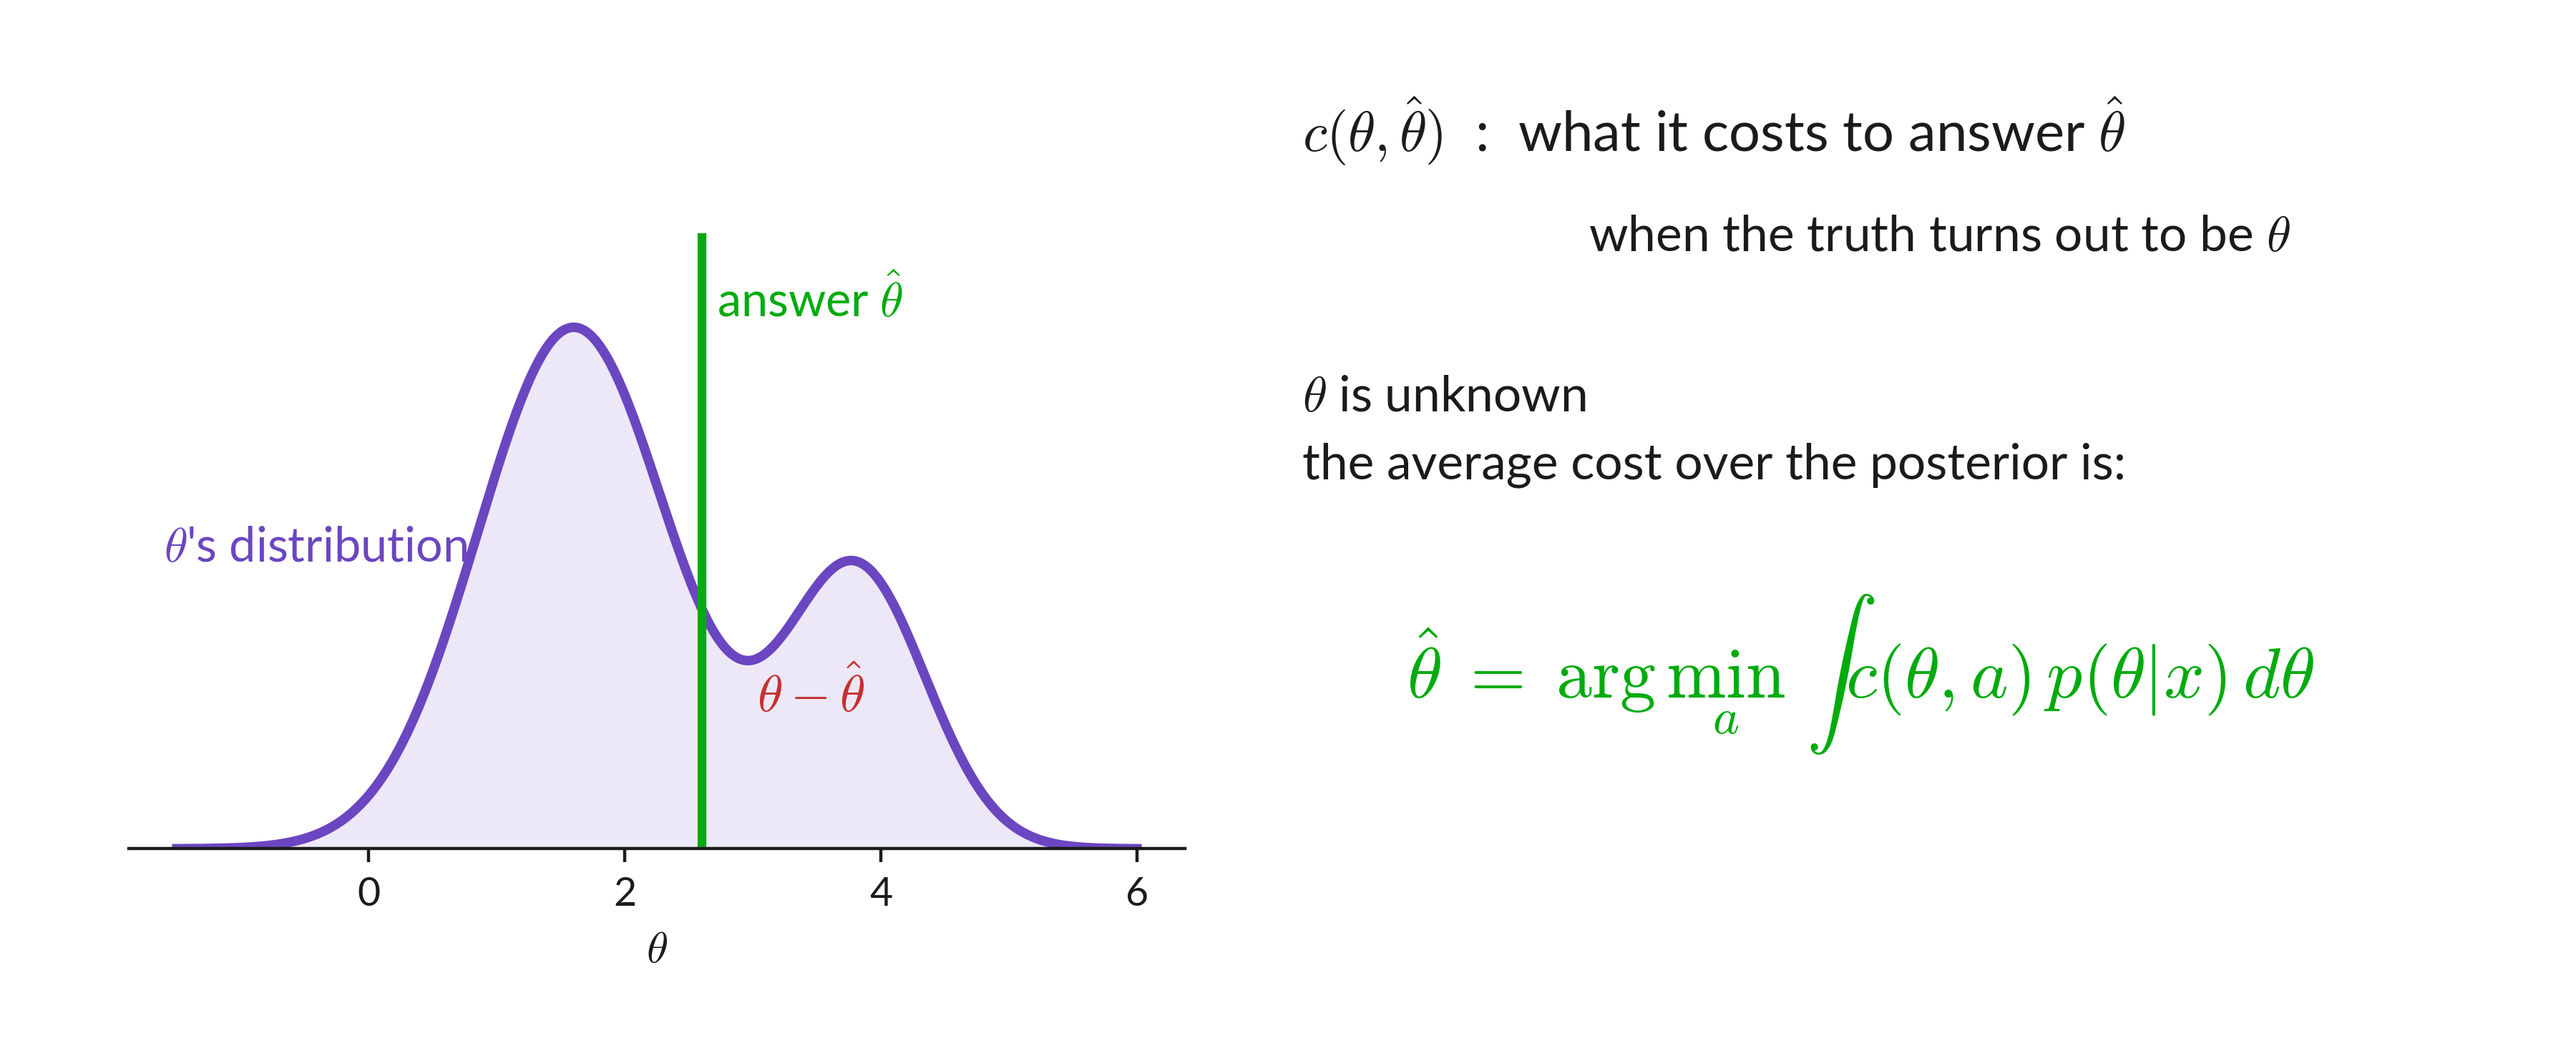
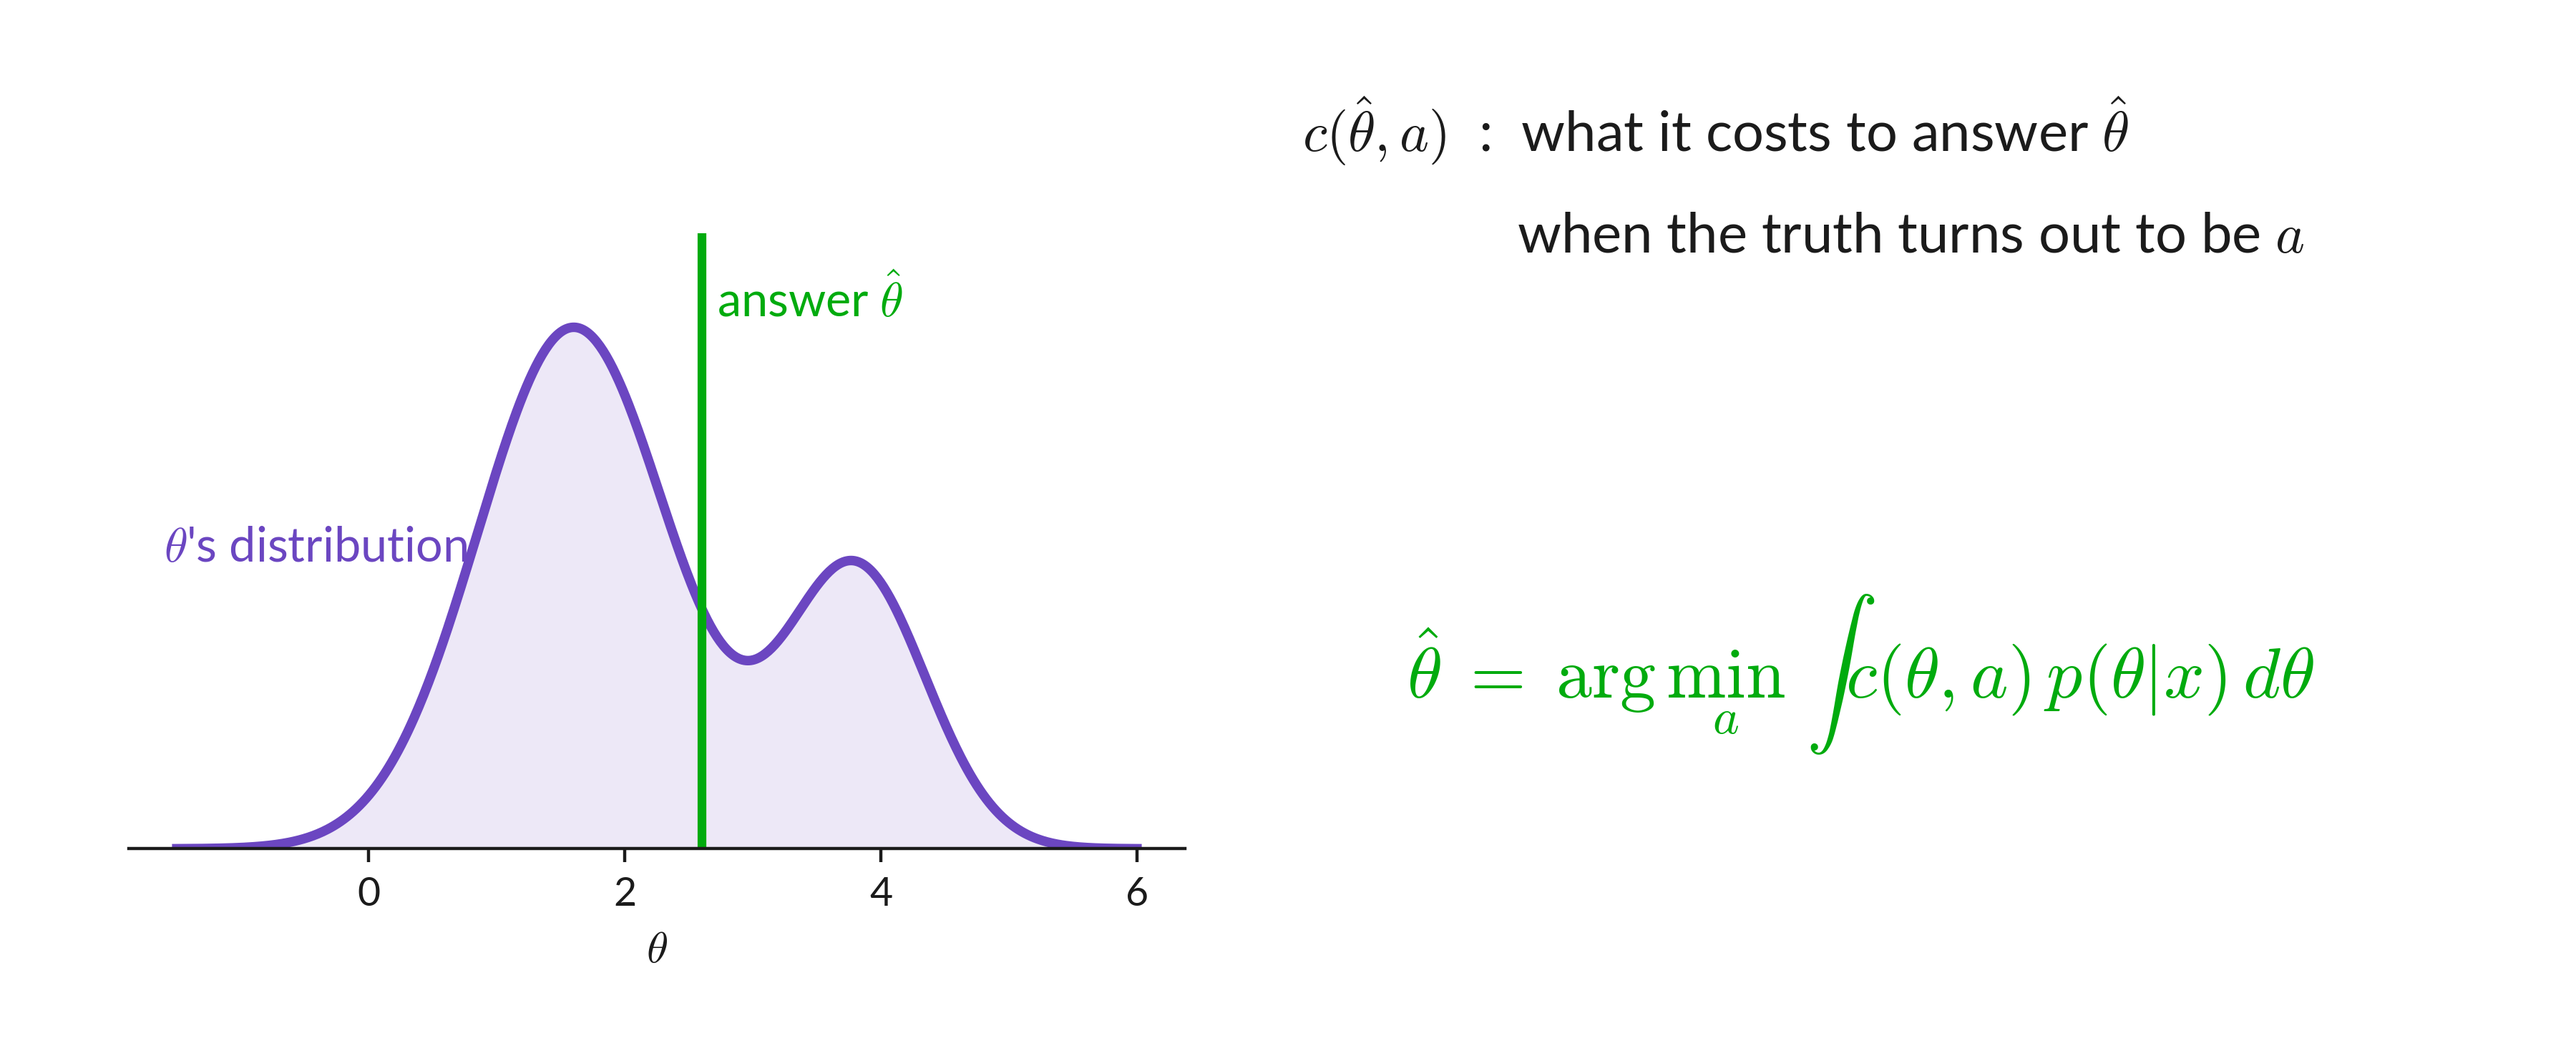
updated slides images

diff --git a/scripts/make_figures_c01.py b/scripts/make_figures_c01.py
@@ -1139,8 +1139,7 @@ def cost_idea(fig):
         xytext=(answer, 0.55),
         arrowprops={"arrowstyle": "<|-|>", "color": RED, "lw": 1.6},
     )
-    plot.text(3.45, 0.1, r"$\theta - \hat\theta$", color=RED, fontsize=13,
-              ha="center")
+    # plot.text(3.45, 0.1, r"$\theta - \hat\theta$", color=RED, fontsize=13, ha="center")
     plot.text(answer + 0.12, post.max() * 1.02, r"answer $\hat\theta$",
               color=GREEN, fontsize=12, ha="left")
     plot.text(-1.6, post.max() * 0.55, r"$\theta$'s distribution",
@@ -1154,31 +1153,20 @@ def cost_idea(fig):
     ax.text(
         x0,
         3.25,
-        r"$c(\theta, \hat\theta)$  :  what it costs to answer $\hat{\theta}$",
+        r"$c(\hat{\theta}, a)$  :  what it costs to answer $\hat{\theta}$",
         ha="left",
         va="center",
         color=INK,
         fontsize=14,
     )
     ax.text(
-        x0+1,
+        x0+0.75,
         2.88,
-        r"when the truth turns out to be $\theta$",
+        r"when the truth turns out to be $a$",
         ha="left",
         va="center",
         color=INK,
-        fontsize=12.5,
-    )
-    ax.text(
-        x0,
-        2.2,
-        r"$\theta$ is unknown"
-        "\nthe average cost over the posterior is:",
-        ha="left",
-        va="center",
-        color=INK,
-        fontsize=12.5,
-        linespacing=1.6,
+        fontsize=14,
     )
     ax.text(
         x0 + 1.95,
@@ -1520,7 +1508,7 @@ def mse_divisor(fig):
     side.text(
         0.0,
         0.34,
-        r"the sum is smallest at $c = n+1$",
+        r"sum is smallest at $c = n+1$",
         transform=side.transAxes,
         fontsize=13,
         color=PURPLE,
@@ -1897,7 +1885,7 @@ def eq_bayes_classifier(fig):
     ax = canvas(fig)
     equation(
         ax,
-        r"$\hat{C}(x) \;=\; \arg\max_k\ P(C = k \,|\, X = x)"
+        r"$\hat{C}(x) \;=\; \arg\max_k\ P(X = x \,|\, C = k)"
         r"\;=\; \arg\max_k\ \frac{f_k(x)\,\pi_k}"
         r"{\sum_{i=1}^{K} f_i(x)\,\pi_i}"
         r"\;=\; \arg\max_k\ f_k(x)\,\pi_k$",
@@ -2141,7 +2129,7 @@ def naive_bayes_gaussian(fig):
     titles = [
         "1.  choose a density",
         "2.  estimate it per class",
-        "3.  classify by MAP",
+        "3.  classify",
     ]
     for ax, title in zip(axes, titles):
         ax.set_title(title, pad=10, fontsize=13)
@@ -2271,9 +2259,9 @@ def lda_fit_steps(fig):
         fig,
         3,
         titles=[
-            "1.  the labelled data",
-            r"2.  one Gaussian per class, one shared $\Sigma$",
-            "3.  the MAP rule",
+            "1.  labelled data",
+           r"2.  one Gaussian per class, one shared $\Sigma$",
+            "3.  classification rule",
         ],
         colors=[INK, INK, INK],
         gridspec_kw=dict(left=0.03, right=0.98, top=0.84, bottom=0.22, wspace=0.12),
@@ -2517,7 +2505,7 @@ def lda_qda_cost(fig):
 def lda_derivation(fig):
     ax = canvas(fig)
     lines = [
-        (r"$\hat{C}(x) = \arg\max_k\ P(C=k|X=x)$", INK),
+        (r"$\hat{C}(x) = \arg\max_k\ P(X=x|C=k)$", INK),
         (
             r"$= \arg\max_k\ f_k(x)\,\pi_k = \arg\max_k\ \log\left[f_k(x)\,\pi_k\right]$",
             INK,
